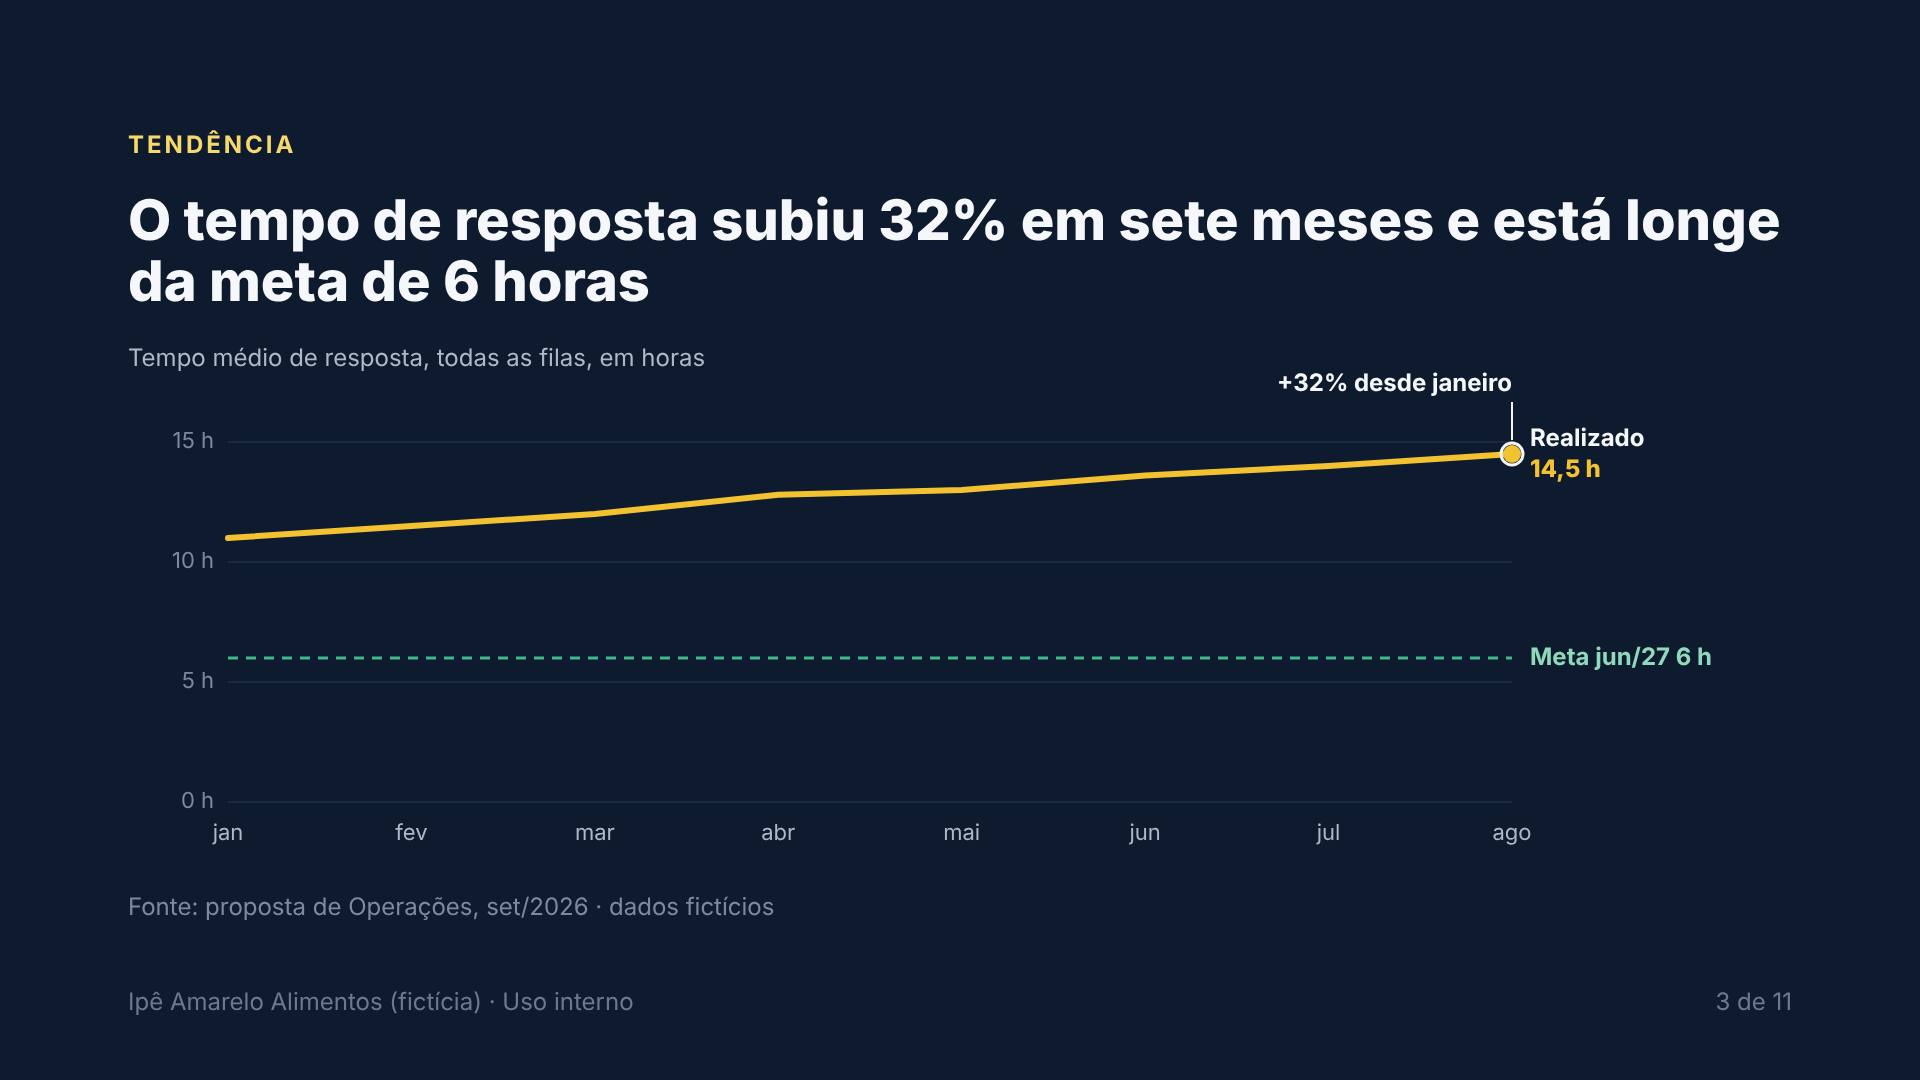
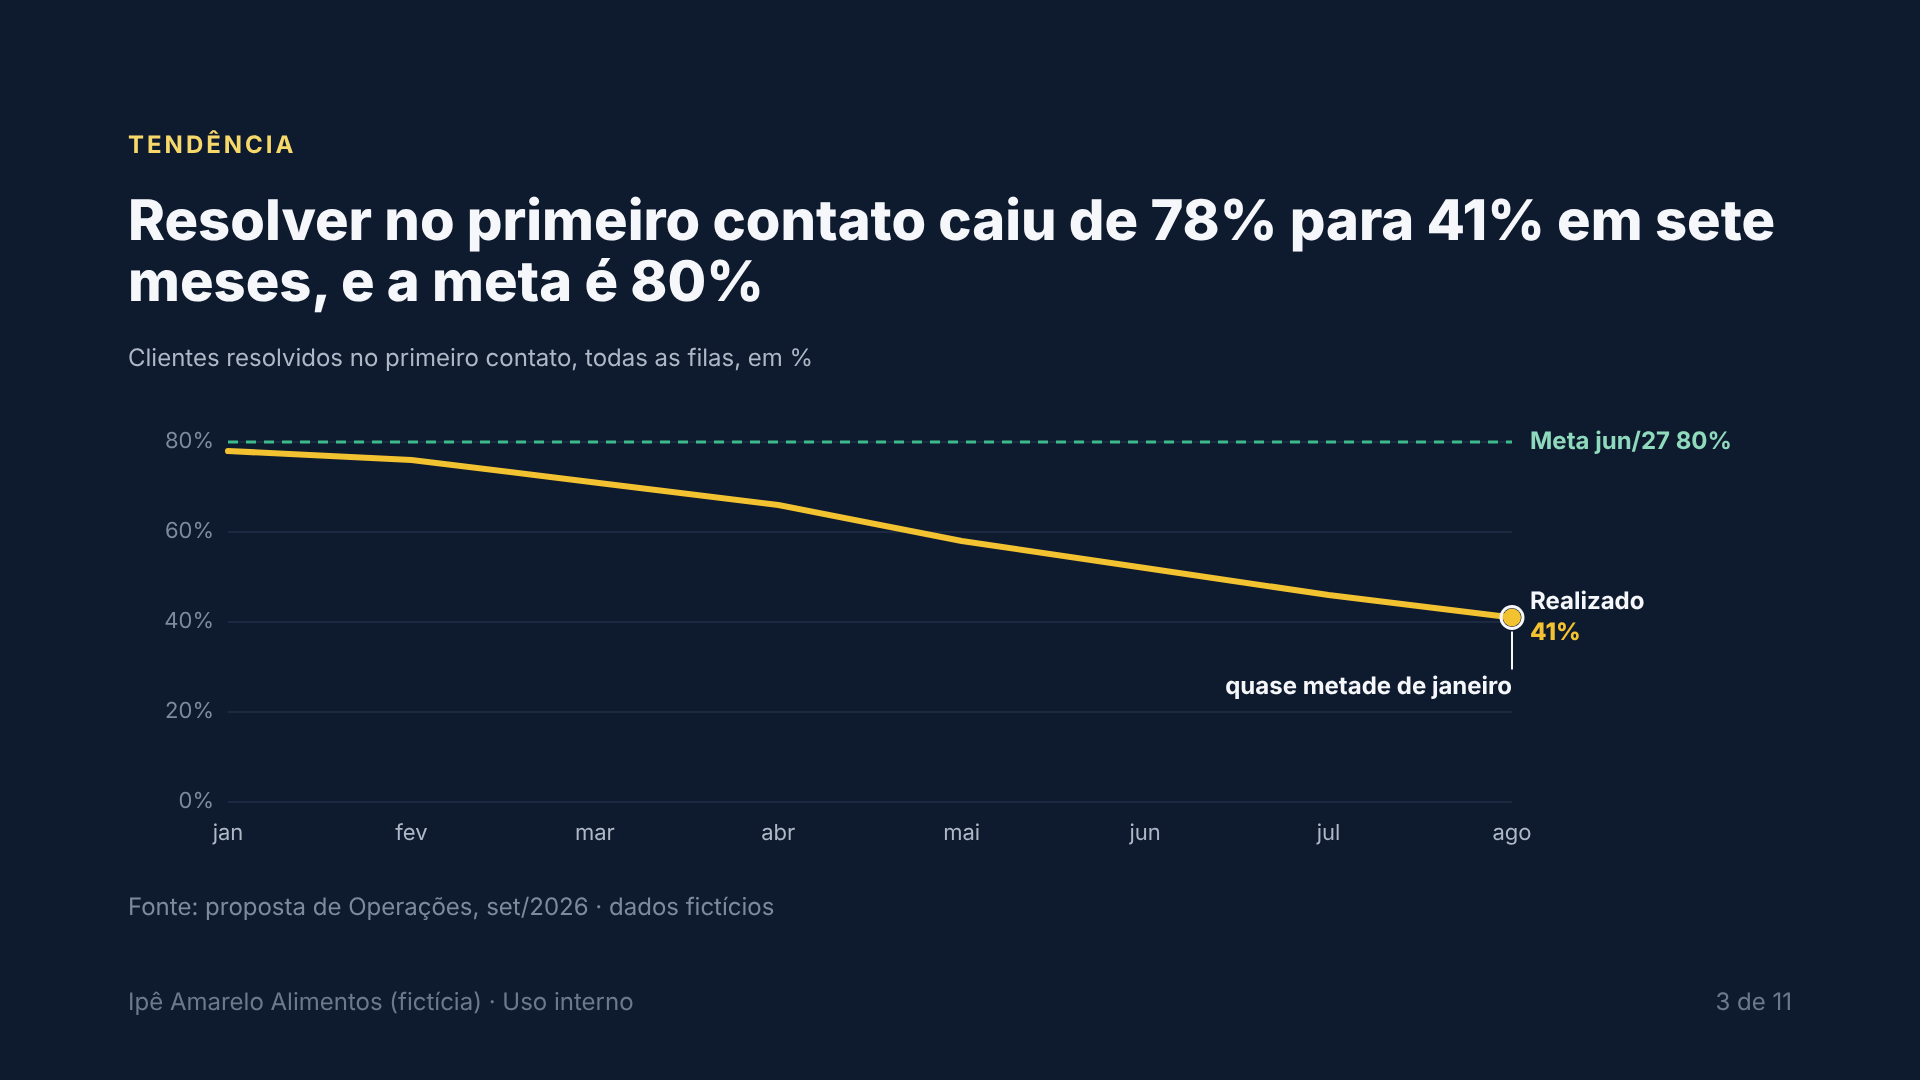
example: clearer trend chart in pt-BR proposal (#2)
Replace the response-time line (+32%, small variation, target below)
with first-contact resolution falling from 78% to 41% against an 80%
target. The gap is visible at thumbnail size and ties to the
'customer served twice' problem. Input, analysis, deck and README
screenshots updated.

diff --git a/decision-deck/examples/proposal-pt-BR/deck.html b/decision-deck/examples/proposal-pt-BR/deck.html
@@ -151,7 +151,7 @@ aside{display:none}
     <p class="row-label">O problema</p>
     <div class="card"><p class="num">1</p><h3>Três filas separadas</h3><p class="muted">Equipe, ferramenta e indicadores diferentes em cada canal.</p></div>
     <div class="card"><p class="num">2</p><h3>Cliente atendido duas vezes</h3><p class="muted">Quem fala por dois canais recomeça do zero.</p></div>
-    <div class="card"><p class="num">3</p><h3>Serviço piorando</h3><p class="muted">Resposta 32% mais lenta e satisfação de 8,1 para 7,2.</p></div>
+    <div class="card"><p class="num">3</p><h3>Serviço piorando</h3><p class="muted">Só 41% resolvem no primeiro contato; eram 78%.</p></div>
   </div>
   <div class="row">
     <p class="row-label accent">A saída</p>
@@ -165,11 +165,11 @@ aside{display:none}
 
 <section>
   <p class="eyebrow">Tendência</p>
-  <h2>O tempo de resposta subiu 32% em sete meses e está longe da meta de 6 horas</h2>
-  <p class="chart-caption">Tempo médio de resposta, todas as filas, em horas</p>
-  <div class="chart" data-type="line"><script type="application/json">{"unit":" h","labels":["jan","fev","mar","abr","mai","jun","jul","ago"],"series":[{"name":"Realizado","values":[11,11.5,12,12.8,13,13.6,14,14.5],"highlight":true}],"target":{"value":6,"label":"Meta jun/27"},"annotations":[{"index":7,"text":"+32% desde janeiro","position":"above","align":"end"}]}</script></div>
+  <h2>Resolver no primeiro contato caiu de 78% para 41% em sete meses, e a meta é 80%</h2>
+  <p class="chart-caption">Clientes resolvidos no primeiro contato, todas as filas, em %</p>
+  <div class="chart" data-type="line"><script type="application/json">{"unit":"%","labels":["jan","fev","mar","abr","mai","jun","jul","ago"],"series":[{"name":"Realizado","values":[78,76,71,66,58,52,46,41],"highlight":true}],"target":{"value":80,"label":"Meta jun/27"},"annotations":[{"index":7,"text":"quase metade de janeiro","position":"below","align":"end"}]}</script></div>
   <p class="source">Fonte: proposta de Operações, set/2026 · dados fictícios</p>
-  <aside>Observação: a curva sobe todo mês. Implicação: a meta exige inverter a tendência, não ajustá-la. Recomendação: tratar a migração como prioridade de serviço, não de ferramenta.</aside>
+  <aside>Observação: a curva cai todo mês e a queda acelerou a partir de abril. Implicação: a meta exige inverter a tendência, não ajustá-la. Recomendação: tratar a migração como prioridade de serviço, não de ferramenta.</aside>
 </section>
 
 <section>
@@ -223,7 +223,7 @@ aside{display:none}
   <p class="eyebrow">Estado das decisões</p>
   <h2>Seis pontos decididos, dois em aberto e cinco que ninguém endereçou</h2>
   <div class="row">
-    <div class="card good-soft top-good"><h3 style="color:var(--good-text)">Decidido</h3><p>Central única</p><p>Histórico compartilhado</p><p>Roteamento por assunto</p><p>Painel único</p><p>Meta de 6 h e satisfação 8,0</p><p>Ordem da migração</p></div>
+    <div class="card good-soft top-good"><h3 style="color:var(--good-text)">Decidido</h3><p>Central única</p><p>Histórico compartilhado</p><p>Roteamento por assunto</p><p>Painel único</p><p>Metas de serviço para jun/27</p><p>Ordem da migração</p></div>
     <div class="card top-neutral"><h3 style="color:var(--muted)">Em aberto (declarado)</h3><p>Retenção das conversas</p><p>Treinamento do telefone</p></div>
     <div class="card accent-soft top-accent"><h3 style="color:var(--accent-text)">Não endereçado</h3><p>Dono único da central</p><p>Operação em paralelo</p><p>Critério de saída por etapa</p><p>Capacidade com +10% de volume</p><p>Retenção como obrigação legal</p></div>
   </div>

diff --git a/decision-deck/examples/proposal-pt-BR/slides.html b/decision-deck/examples/proposal-pt-BR/slides.html
@@ -13,7 +13,7 @@
     <p class="row-label">O problema</p>
     <div class="card"><p class="num">1</p><h3>Três filas separadas</h3><p class="muted">Equipe, ferramenta e indicadores diferentes em cada canal.</p></div>
     <div class="card"><p class="num">2</p><h3>Cliente atendido duas vezes</h3><p class="muted">Quem fala por dois canais recomeça do zero.</p></div>
-    <div class="card"><p class="num">3</p><h3>Serviço piorando</h3><p class="muted">Resposta 32% mais lenta e satisfação de 8,1 para 7,2.</p></div>
+    <div class="card"><p class="num">3</p><h3>Serviço piorando</h3><p class="muted">Só 41% resolvem no primeiro contato; eram 78%.</p></div>
   </div>
   <div class="row">
     <p class="row-label accent">A saída</p>
@@ -27,11 +27,11 @@
 
 <section>
   <p class="eyebrow">Tendência</p>
-  <h2>O tempo de resposta subiu 32% em sete meses e está longe da meta de 6 horas</h2>
-  <p class="chart-caption">Tempo médio de resposta, todas as filas, em horas</p>
-  <div class="chart" data-type="line"><script type="application/json">{"unit":" h","labels":["jan","fev","mar","abr","mai","jun","jul","ago"],"series":[{"name":"Realizado","values":[11,11.5,12,12.8,13,13.6,14,14.5],"highlight":true}],"target":{"value":6,"label":"Meta jun/27"},"annotations":[{"index":7,"text":"+32% desde janeiro","position":"above","align":"end"}]}</script></div>
+  <h2>Resolver no primeiro contato caiu de 78% para 41% em sete meses, e a meta é 80%</h2>
+  <p class="chart-caption">Clientes resolvidos no primeiro contato, todas as filas, em %</p>
+  <div class="chart" data-type="line"><script type="application/json">{"unit":"%","labels":["jan","fev","mar","abr","mai","jun","jul","ago"],"series":[{"name":"Realizado","values":[78,76,71,66,58,52,46,41],"highlight":true}],"target":{"value":80,"label":"Meta jun/27"},"annotations":[{"index":7,"text":"quase metade de janeiro","position":"below","align":"end"}]}</script></div>
   <p class="source">Fonte: proposta de Operações, set/2026 · dados fictícios</p>
-  <aside>Observação: a curva sobe todo mês. Implicação: a meta exige inverter a tendência, não ajustá-la. Recomendação: tratar a migração como prioridade de serviço, não de ferramenta.</aside>
+  <aside>Observação: a curva cai todo mês e a queda acelerou a partir de abril. Implicação: a meta exige inverter a tendência, não ajustá-la. Recomendação: tratar a migração como prioridade de serviço, não de ferramenta.</aside>
 </section>
 
 <section>
@@ -85,7 +85,7 @@
   <p class="eyebrow">Estado das decisões</p>
   <h2>Seis pontos decididos, dois em aberto e cinco que ninguém endereçou</h2>
   <div class="row">
-    <div class="card good-soft top-good"><h3 style="color:var(--good-text)">Decidido</h3><p>Central única</p><p>Histórico compartilhado</p><p>Roteamento por assunto</p><p>Painel único</p><p>Meta de 6 h e satisfação 8,0</p><p>Ordem da migração</p></div>
+    <div class="card good-soft top-good"><h3 style="color:var(--good-text)">Decidido</h3><p>Central única</p><p>Histórico compartilhado</p><p>Roteamento por assunto</p><p>Painel único</p><p>Metas de serviço para jun/27</p><p>Ordem da migração</p></div>
     <div class="card top-neutral"><h3 style="color:var(--muted)">Em aberto (declarado)</h3><p>Retenção das conversas</p><p>Treinamento do telefone</p></div>
     <div class="card accent-soft top-accent"><h3 style="color:var(--accent-text)">Não endereçado</h3><p>Dono único da central</p><p>Operação em paralelo</p><p>Critério de saída por etapa</p><p>Capacidade com +10% de volume</p><p>Retenção como obrigação legal</p></div>
   </div>

diff --git a/decision-deck/examples/proposal-pt-BR/analysis.md b/decision-deck/examples/proposal-pt-BR/analysis.md
@@ -16,7 +16,7 @@ Unificar os três canais de atendimento numa central única resolve o atendiment
 | Painel único | Tempo de resposta e satisfação definidos uma vez | Sem dono declarado |
 
 ## 3. Decidido
-Central única; histórico compartilhado; roteamento por assunto; painel único; meta de tempo de resposta abaixo de 6 h e satisfação 8,0 até junho de 2027; sequência de migração (WhatsApp e e-mail primeiro, telefone por último).
+Central única; histórico compartilhado; roteamento por assunto; painel único; metas até junho de 2027 (resposta abaixo de 6 h, 80% resolvidos no primeiro contato, satisfação 8,0); sequência de migração (WhatsApp e e-mail primeiro, telefone por último).
 
 ## 4. Em aberto, declarado
 Política de gravação e retenção das conversas; treinamento das equipes de telefone para canais escritos.
@@ -55,7 +55,7 @@ Política de gravação e retenção das conversas; treinamento das equipes de t
 Todos vêm dos documentos de entrada (fictícios). Nenhum é estimativa do agente.
 
 ## 11. Leitura dos dados
-- **Tempo de resposta jan a ago:** tendência, gráfico de linha com a meta de 6 h. Observação: subiu 32% em sete meses. Implicação: a meta exige inverter a curva, não ajustá-la. Recomendação: tratar a migração como prioridade de serviço, não de ferramenta.
+- **Resolução no primeiro contato jan a ago:** tendência, gráfico de linha com a meta de 80%. Observação: caiu de 78% para 41% em sete meses, quase pela metade. Escolhido no lugar do tempo de resposta (subiu 32%) porque a queda é visível de longe e liga direto ao cliente atendido duas vezes. Implicação: a meta exige inverter a curva, não ajustá-la. Recomendação: tratar a migração como prioridade de serviço, não de ferramenta.
 - **Volume por canal:** ranking, barras com WhatsApp em destaque (52% do volume).
 - **Custo mensal 442 → 400:** ponte, cascata. A economia vem das ferramentas e da equipe; a equipe menor é a mesma premissa da inconsistência 1.
 - **Cronograma:** Gantt com marco crítico em 15/03/2027.
@@ -63,12 +63,12 @@ Todos vêm dos documentos de entrada (fictícios). Nenhum é estimativa do agent
 ## 12. Grande Ideia e storyboard
 **Grande Ideia:** a central única corrige um atendimento que piora a cada mês, mas o orçamento atual a faz começar com equipe menor e sem tempo de transição; quatro decisões resolvem isso antes do início.
 
-**SCQA:** três canais separados (S); o tempo de resposta subiu 32% e a satisfação caiu (C); como unificar sem piorar o serviço durante a migração? (Q); unificar, com quatro decisões tomadas antes de começar (R).
+**SCQA:** três canais separados (S); a resolução no primeiro contato caiu de 78% para 41% e a satisfação caiu (C); como unificar sem piorar o serviço durante a migração? (Q); unificar, com quatro decisões tomadas antes de começar (R).
 
 **Storyboard:**
 1. capa
 2. Unificar o atendimento resolve a piora, se quatro decisões vierem antes (cards + banner)
-3. O tempo de resposta subiu 32% em sete meses e está longe da meta de 6 h (line)
+3. Resolver no primeiro contato caiu de 78% para 41% em sete meses, e a meta é 80% (line)
 4. O WhatsApp já é metade do volume e o canal mais barato (bar)
 5. A central troca três filas por uma, com histórico e roteamento (flow)
 6. O custo mensal cai de R$ 442 mil para R$ 400 mil, e quase toda a economia líquida vem da equipe menor (waterfall)

diff --git a/decision-deck/examples/proposal-pt-BR/input/proposta-atendimento-unificado.md b/decision-deck/examples/proposal-pt-BR/input/proposta-atendimento-unificado.md
@@ -18,6 +18,8 @@ O cliente que fala por dois canais é atendido duas vezes, por pessoas diferente
 
 Evolução do tempo médio de resposta (todas as filas, em horas): jan 11, fev 11,5, mar 12, abr 12,8, mai 13, jun 13,6, jul 14, ago 14,5.
 
+Clientes resolvidos no primeiro contato (todas as filas, em %): jan 78, fev 76, mar 71, abr 66, mai 58, jun 52, jul 46, ago 41.
+
 ## Proposta
 
 1. Uma central única, com uma ferramenta e uma fila para os três canais.
@@ -36,7 +38,7 @@ A central **garante** que nenhum cliente será atendido duas vezes pelo mesmo pr
 
 ## Meta
 
-Tempo médio de resposta abaixo de 6 horas e satisfação de volta a 8,0 até junho de 2027.
+Tempo médio de resposta abaixo de 6 horas, 80% dos clientes resolvidos no primeiro contato e satisfação de volta a 8,0 até junho de 2027.
 
 ## Equipe
 
